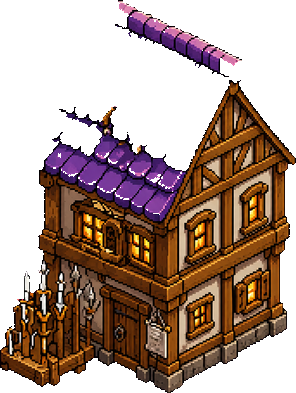
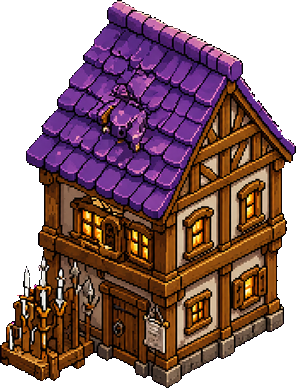
概念圖對齊（四）：紫屋頂、酒館位置、接地陰影
- 酒館/學院紫屋頂被去背的影子規則吃掉 → NO_SHADOW/NO_HOLES 重切
- 酒館畫寬 165、圖往右下偏移（SPRITE_SHIFT，佔地與道路不變）；獵人小屋畫寬 100
- 建築接地陰影縮小變淡（概念圖沒有大片暗橢圓）

diff --git a/src/pixel-world.js b/src/pixel-world.js
@@ -385,7 +385,7 @@ const atlasLod=[];
 const ATLAS_REF_WIDTH_1X=145.5;
 const BUILDING_WORLD_WIDTH=71;
 // v3(概念圖參考重生)的酒館連露台,概念圖量約 560px+ → 140 單位。
-const conceptBuildingWidth=id=>({hall:112,inn:94,tavern:140,bounty:48,dungeon:77}[id]||86);
+const conceptBuildingWidth=id=>({hall:112,inn:94,tavern:165,house:100,bounty:48,dungeon:77}[id]||86);
 // 大廳與地下城要比店鋪大。舊版是 hall:79 / dungeon:77,換算成倍率。
 const BUILDING_SCALE={hall:1.11,dungeon:1.08};
 // 除錯用:console 打 __mistvaleAtlas() 看圖集載入狀況
@@ -873,7 +873,8 @@ export function createWorld(canvas,{onSelect=()=>{},onPlace=()=>{},getState=()=>
   function bar(x,y,w,frac,color){pixel(g,x-1,y-1,w+2,6,'#1c0e06dd');pixel(g,x,y,w,4,'#5a2f14');pixel(g,x,y,Math.max(0,w*Math.min(1,frac)),4,color);pixel(g,x,y,Math.max(0,w*Math.min(1,frac)),2,shade(color,25));}
   function getLevel(id){const level=state.buildings?.[id];return typeof level==='number'?level:level?.level??1;}
 
-  function drawBuilding(b){const layout=state.layout?.[b.id]||b,p=screenPoint(layout.x,layout.z),level=getLevel(b.id),s=selected===b.id;
+  const SPRITE_SHIFT={tavern:[10,18]};
+  function drawBuilding(b){const layout=state.layout?.[b.id]||b;let p=screenPoint(layout.x,layout.z);const level=getLevel(b.id),s=selected===b.id;
     if(s)ring(p,31,'#ffdc7b');
     if(!level){
       // 空地:l0veyou 的施工地基(石基、木樁、繩子、木板堆),取代虛線菱形。
@@ -883,8 +884,9 @@ export function createWorld(canvas,{onSelect=()=>{},onPlace=()=>{},getState=()=>
     }
     const conceptSprite=atlasCell(b.id);
     const conceptWidth=conceptBuildingWidth(b.id);
-    // 概念圖的建築腳下有一圈深色接地陰影(畫面「暗部」比例 14.9%,遊戲原本 9.1%)。
-    shadow({x:p.x,y:p.y+4*scale},conceptWidth*.5,conceptWidth*.2,'#1a261c70');
+    // 酒館 v3 連露台:圖往右下畫(露台在佔地前方),對齊概念圖左下的酒館;佔地與道路不變。
+    const sh=SPRITE_SHIFT[b.id];if(sh)p={x:p.x+sh[0]*scale,y:p.y+sh[1]*scale};
+    shadow({x:p.x,y:p.y+4*scale},conceptWidth*.36,conceptWidth*.13,'#1a261c48');  // 概念圖只有貼地的一圈暗,不是大片橢圓
     let rect=conceptSprite?drawSprite(conceptSprite,p,conceptWidth,conceptWidth*conceptSprite.height/conceptSprite.width,9):drawAtlasBuilding(b.id,p,9);
     if(!rect){const sprite=atlasCell(b.id)||buildingSprite(b.id),w=conceptBuildingWidth(b.id);rect=drawSprite(sprite,p,w,w*sprite.height/sprite.width,9);}
     // 下面冒煙那段用的是「世界單位」的高度(會再乘 scale),照舊版語意換算回去。
